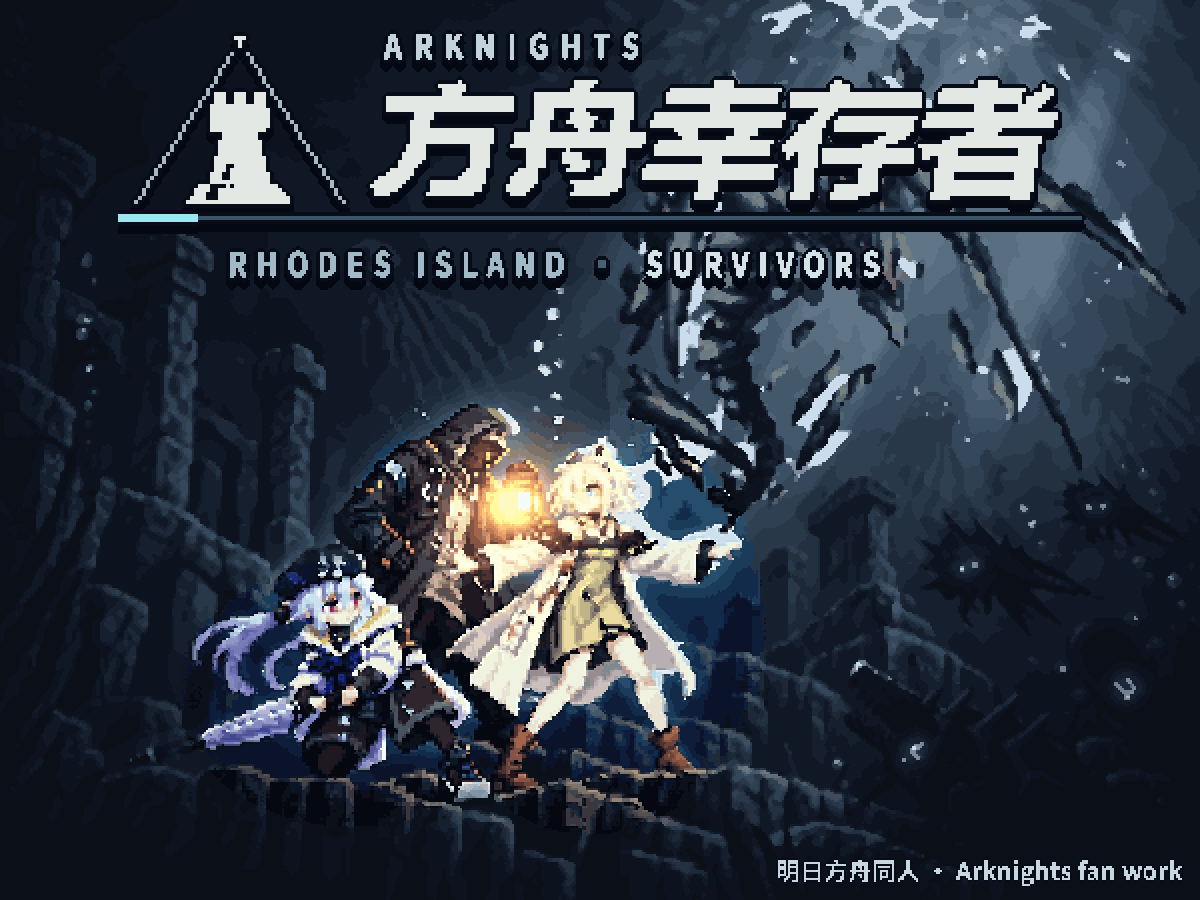
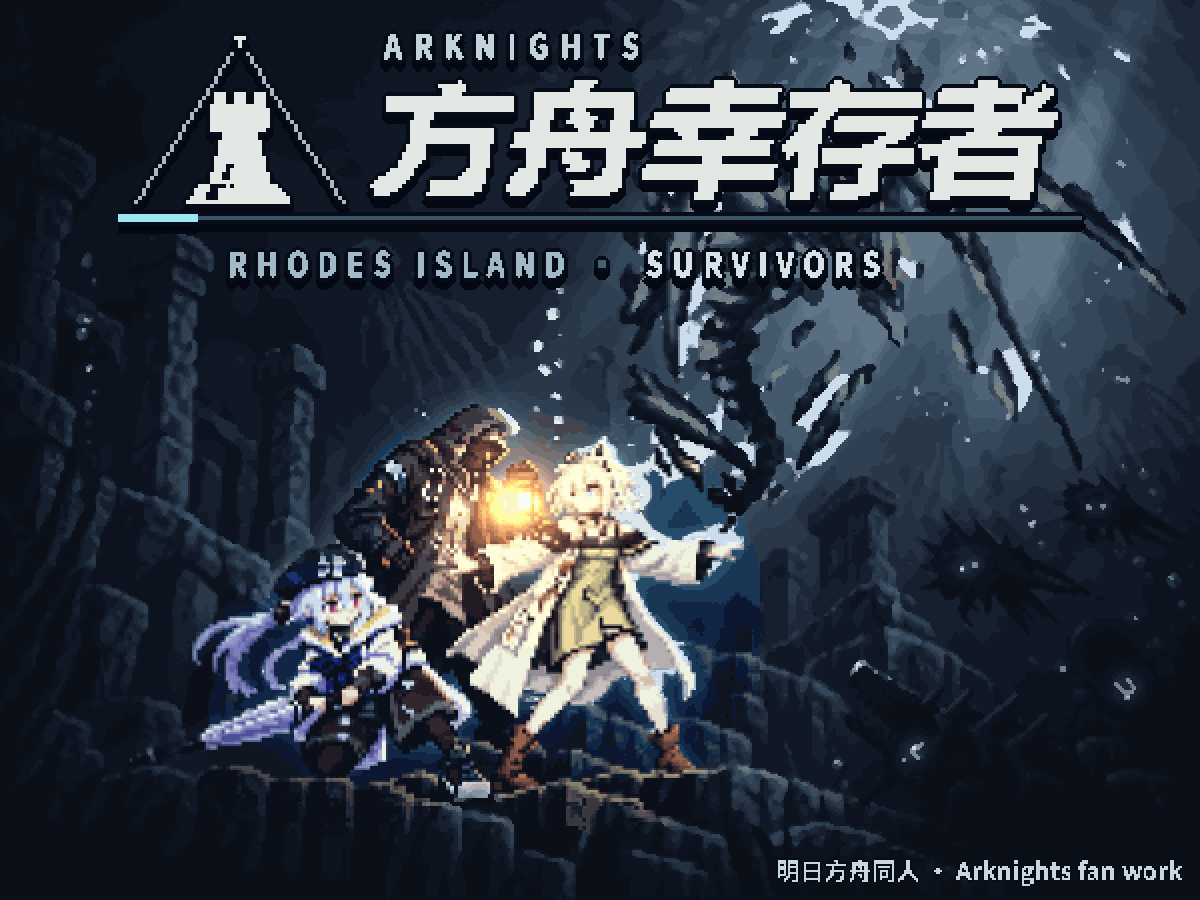
封面 C2L：人物不再去麻点、不锐化（会碎成高反差色块，用户 11-07「更脏了」），去麻点只清背景

diff --git a/art/promo/itch/cover_g/build_cover_g_c2l.py b/art/promo/itch/cover_g/build_cover_g_c2l.py
@@ -135,7 +135,7 @@ def pixelize2(img, figm, cell):
     W, H = img.size
     w, h = W // cell, H // cell
     small = img.resize((w, h), Image.BOX)
-    sharp = img.filter(ImageFilter.UnsharpMask(radius=1.2, percent=60, threshold=2)).resize((w, h), Image.BOX)
+    sharp = small   # 11-07：锐化会把人物边缘反差拉高、显脏，去掉
     fm = np.asarray(Image.fromarray((figm * 255).astype(np.uint8)).resize((w, h), Image.BOX), np.float32) / 255 > 0.5
     # 11-07 用户嫌脏：不再抖动（点阵本身就是颗粒），改为背景先 3×3 中值去噪、多收颜色（160）来消色带
     ad = np.asarray(small.filter(ImageFilter.MedianFilter(3)))
@@ -149,7 +149,7 @@ def pixelize2(img, figm, cell):
     lum = (out.astype(np.float32) * [0.299, 0.587, 0.114]).sum(-1)
     mxc, mnc = out.max(-1).astype(np.float32), out.min(-1).astype(np.float32)
     satc = (mxc - mnc) / (mxc + 1)
-    protect = (fm & ((lum > 200) | (satc > 0.45))) | (lum > 235)
+    protect = fm | (lum > 235)   # 11-07：人物也去麻点会碎成高反差色块（用户「更脏了」），只清背景
     out = despeckle(out, protect)
     return Image.fromarray(out).resize((W, H), Image.NEAREST)
 

diff --git a/art/promo/itch/cover_g/handoff.md b/art/promo/itch/cover_g/handoff.md
@@ -71,3 +71,4 @@
 - 生图原图在 build/imagegen/itchg_A、itchg_Aw（不进 git，从 sharp-kare 工作树拷来）。
 - 去麻点（11-07 用户嫌脏）：脏的主因是像素化把生图碎纹理缩成零散单像素——孤立像素（与上下左右都不同）实测 A′ 9.4%、C2 8.1%，游戏内标题页像素画 0.2%。
   收色后把孤立像素改成 3×3 邻域最多的颜色（3 轮），人物亮点 / 高饱和点（眼睛、高光）与灯芯保护不动；itch 封面降到 2.1%、横幅 1.3%、Toy 0.75%。
+- 11-07 再改（用户「是不是更脏了」）：人物也去麻点 + 像素化前锐化，会把脸 / 头发 / 大衣碎成高反差黑白块；改为去麻点只清背景、人物不锐化。
